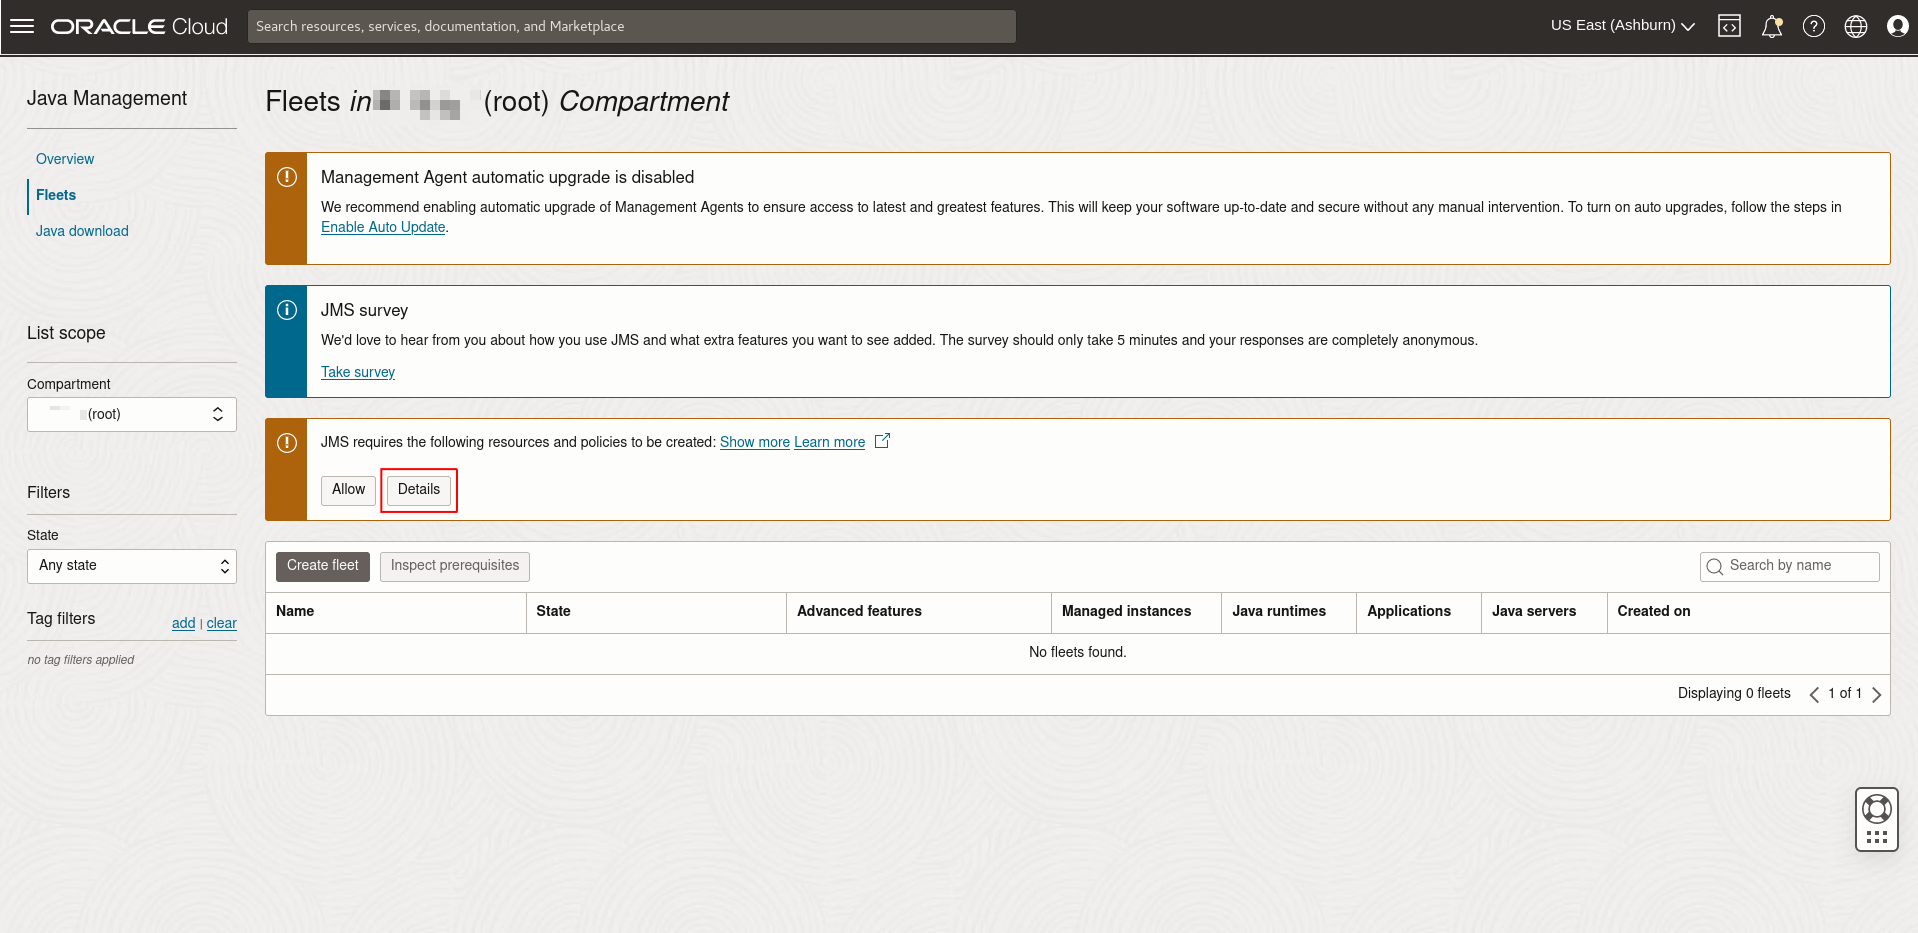
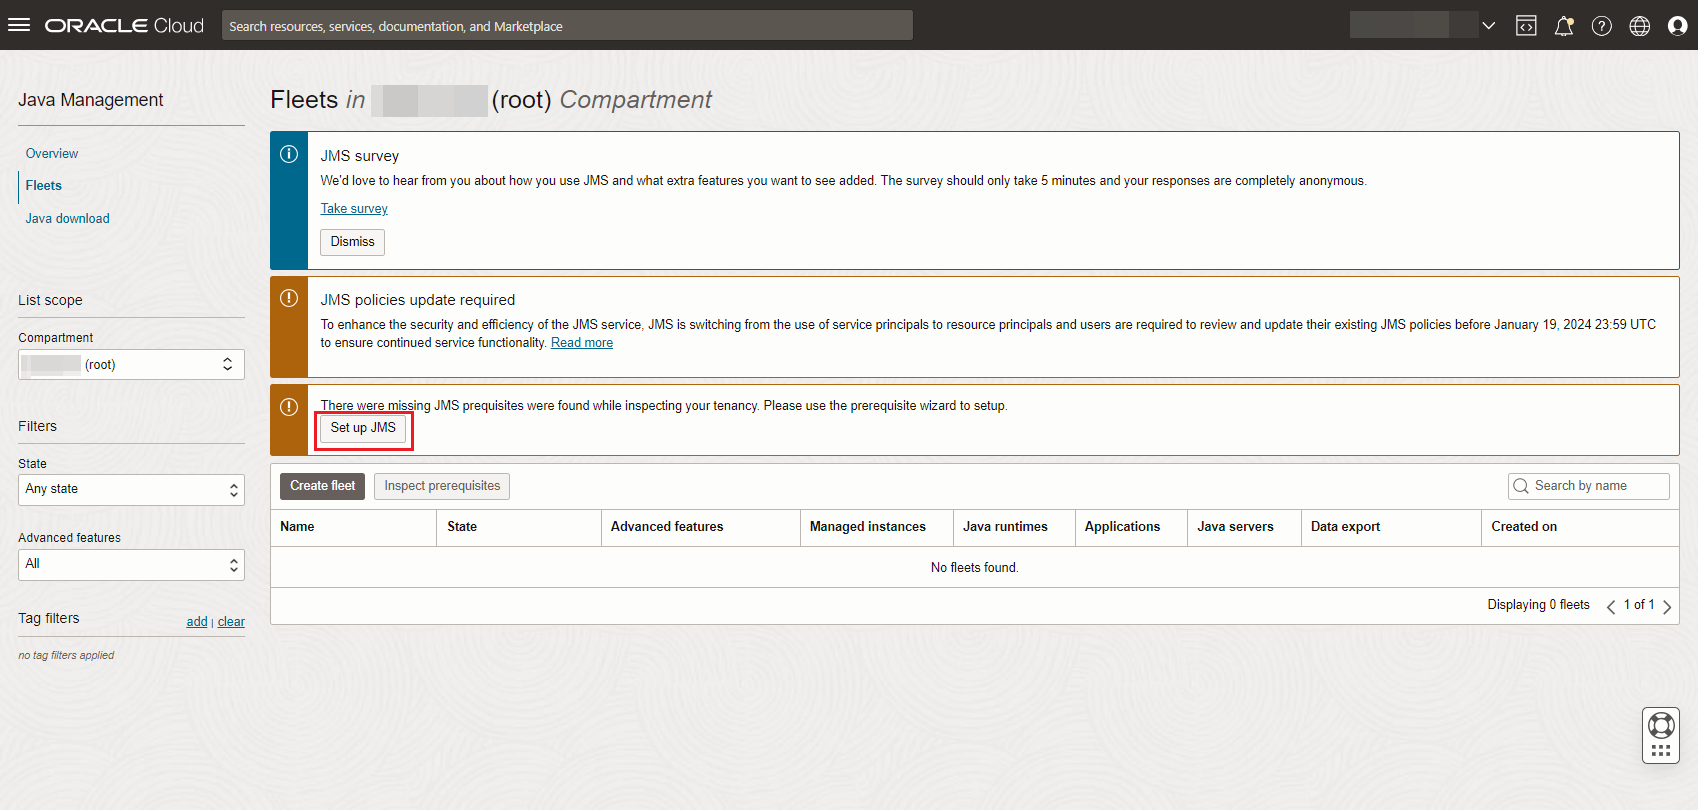
update UI changes for the prerequisite wizard

diff --git a/java-management/set-up-oci-for-jms/set-up-oci-for-jms.md b/java-management/set-up-oci-for-jms/set-up-oci-for-jms.md
@@ -46,22 +46,31 @@ The Onboarding Wizard helps to create the necessary resources automatically. We 
 3. Select the root compartment under which the Onboarding Wizard will create a new compartment for JMS fleets.
     &nbsp;
 
-4. Click **Details** to view details of the resources that will be created by the Onboarding Wizard. The resources created are a new compartment, user group, dynamic group, policy and tag namespace.
+4. Click **Set up JMS** to view details of the resources that will be created by the Onboarding Wizard. The resources created are a new compartment, user group, dynamic group, policy and tag namespace.
 
-    > **Note:** If the **Details** button does not appear, click on the **Inspect prerequisites** button.
+    > **Note:** If the **Set up JMS** button does not appear, click on the **Inspect prerequisites** button.
 
     ![image of onboarding wizard buttons](images/fleets-setup-jms.png)
 
-
     &nbsp;
 
-5. Scroll down to the bottom of the page and click **Set up JMS** to start the Onboarding Wizard.
+5.  You will see details of JMS prerequisites. Click **Review** to see all the resource that will be created.
     ![image of onboarding wizard window](images/fleets-setup-details.png)
+    &nbsp;
+
+   Scroll down to the bottom of the page and click **Confirm** to start the Onboarding Wizard.
+
+    ![image of onboarding wizard confirm](images/fleets-setup-confirm.png)
 
 6. You will see a screen informing you that the prerequisites have been successfully set-up. Click **Done** to close the window.
     ![image of onboarding wizard success window](images/fleets-setup-success.png)
     > **Note:** If an error occurs in the creation process, you will see the error message being displayed. Resolve the error and restart the Onboarding Wizard to continue.
+    
     &nbsp;
+
+   You should receive a notification in green as seen below:
+
+   ![image of prerequisites setup successful notification](images/jms-prerequisites-setup-successful-notification.png)
 
 7. Verify creation of prerequisite resources (Optional)
 
@@ -333,4 +342,4 @@ You may now **proceed to the next lab**.
 ## Acknowledgements
 
 * **Author** - Alvin Lam, Java Management Service
-* **Last Updated By/Date** - Chan Wei Quan, October 2023
+* **Last Updated By/Date** - Yuan Chi Liu, January 2024
